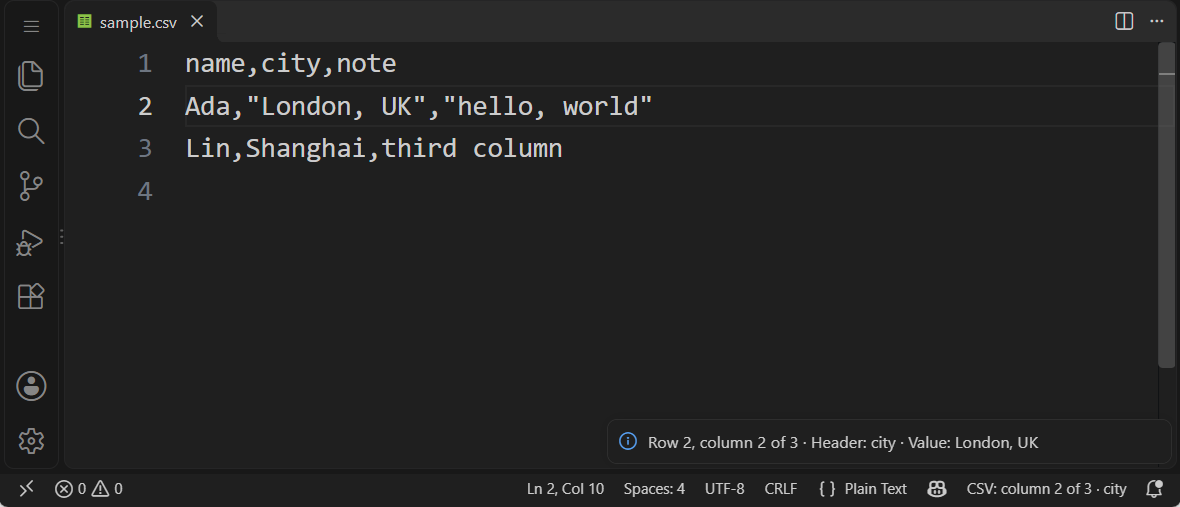
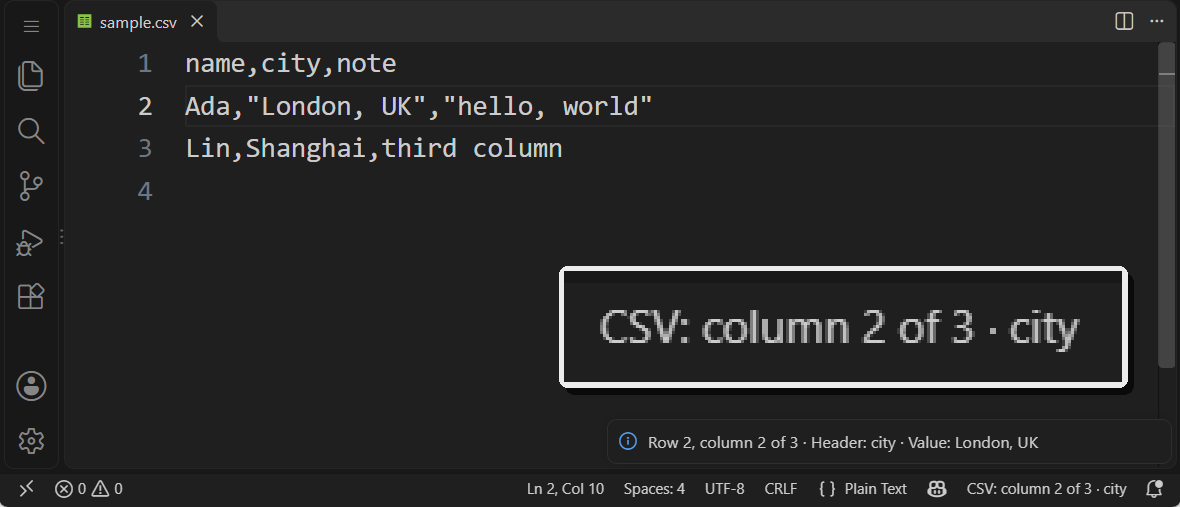
docs: enlarge status bar demos and credit Codex (#6)

Changed region(s): [[0.4576, 0.5325, 0.9763, 0.7692], [0.4881, 0.503, 0.9458, 0.5325], [0.8542, 0.6213, 0.9153, 0.7101]]

diff --git a/README.ja.md b/README.ja.md
@@ -6,15 +6,15 @@ NoColorCSV は、色覚障害・色覚特性のある方や、色だけで列を
 
 ## VS Code での動作画面
 
-以下は、付属の[サンプルファイル](examples/sample.csv)を VS Code で開き、拡張機能を実際に動かして撮影した画面です。画面は英語表示ですが、拡張機能の表示文言は各言語に対応しています。
+以下は、付属の[サンプルファイル](examples/sample.csv)を VS Code で開き、拡張機能を実際に動かして撮影した画面です。
 
 **現在の列：**カーソルが `hello, world` にあるとき、ステータスバーに 3 列目と見出し `note` が表示されます。
 
-![VS Code で CSV の 3 列目を示し、ステータスバーに列番号と note 見出しを表示した画面](docs/images/column-status.png)
+![VS Code でカーソルが 3 列目にあり、拡大枠にステータスバーの CSV: column 3 of 3 · note が表示された画面](docs/images/column-status.png)
 
 **セルの詳細：**カーソルが `London, UK` にあるとき、ステータスバーの項目を選ぶと、行番号、列番号、見出し、セルの内容が文字で表示されます。引用符内のカンマは区切り文字になりません。
 
-![VS Code で city 見出しの下にある 2 列目の London, UK の詳細を表示した画面](docs/images/cell-details.png)
+![VS Code で 2 列目の London, UK の詳細を表示し、拡大枠にステータスバーの CSV: column 2 of 3 · city が表示された画面](docs/images/cell-details.png)
 
 ## Rainbow CSV との違い
 
@@ -69,3 +69,7 @@ npm run package
 ```
 
 開発方針は [AGENTS.md](AGENTS.md)、ライセンスは [LICENSE](LICENSE) を参照してください。
+
+## AI 支援による開発
+
+NoColorCSV の開発と保守は EETKILLER が行い、OpenAI Codex がコーディングを支援しています。

diff --git a/README.ko.md b/README.ko.md
@@ -6,15 +6,15 @@ NoColorCSV는 색각 장애가 있거나 색상만으로 열을 구분하기 어
 
 ## VS Code 실행 화면
 
-다음 화면은 포함된 [예제 파일](examples/sample.csv)을 VS Code에서 열고 확장을 실제로 실행해 촬영했습니다. 화면은 영어로 표시되지만 확장 인터페이스에는 현지화된 문구도 제공됩니다.
+다음 화면은 포함된 [예제 파일](examples/sample.csv)을 VS Code에서 열고 확장을 실제로 실행해 촬영했습니다.
 
 **현재 열:** 커서가 `hello, world`에 있으면 상태 표시줄에 3열과 `note` 헤더가 표시됩니다.
 
-![VS Code에서 CSV의 3열에 커서가 있고 NoColorCSV 상태 표시줄에 열 번호와 note 헤더가 표시된 화면](docs/images/column-status.png)
+![VS Code에서 커서가 3열에 있고 확대 상자에 상태 표시줄의 CSV: column 3 of 3 · note가 표시된 화면](docs/images/column-status.png)
 
 **셀 상세 정보:** 커서가 `London, UK`에 있을 때 상태 표시줄 항목을 선택하면 행 번호, 열 번호, 헤더, 셀 값이 텍스트로 표시됩니다. 따옴표 안의 쉼표는 구분자로 처리되지 않습니다.
 
-![VS Code에서 city 헤더 아래 2열의 London, UK 셀 상세 정보를 표시한 화면](docs/images/cell-details.png)
+![VS Code에서 2열의 London, UK 셀 상세 정보를 표시하고 확대 상자에 상태 표시줄의 CSV: column 2 of 3 · city가 표시된 화면](docs/images/cell-details.png)
 
 ## Rainbow CSV와의 차이
 
@@ -69,3 +69,7 @@ npm run package
 ```
 
 개발 규칙은 [AGENTS.md](AGENTS.md), 라이선스는 [LICENSE](LICENSE)를 참고하세요.
+
+## AI 지원 개발
+
+NoColorCSV는 EETKILLER가 개발하고 유지 관리하며, OpenAI Codex가 코딩을 지원합니다.

diff --git a/README.es.md b/README.es.md
@@ -6,15 +6,15 @@ NoColorCSV es una extensión de VS Code para personas con dificultades de percep
 
 ## Así se ve en VS Code
 
-Estas capturas muestran la extensión en funcionamiento con el [archivo de ejemplo](examples/sample.csv) incluido. La interfaz aparece en inglés; la extensión también ofrece textos localizados.
+Estas capturas muestran la extensión en funcionamiento con el [archivo de ejemplo](examples/sample.csv) incluido.
 
 **Columna actual:** Al situar el cursor en `hello, world`, la barra de estado indica la columna 3 y su encabezado `note`.
 
-![VS Code muestra el cursor en la tercera columna de un CSV y NoColorCSV indica la columna 3 y el encabezado note en la barra de estado](docs/images/column-status.png)
+![VS Code muestra el cursor en la columna 3; un recuadro ampliado muestra el texto CSV: column 3 of 3 · note de la barra de estado](docs/images/column-status.png)
 
 **Detalles de la celda:** Con el cursor en `London, UK`, al seleccionar el elemento de la barra de estado se muestran en texto la fila, la columna, el encabezado y el valor de la celda. La coma dentro del campo entre comillas no inicia otra columna.
 
-![VS Code muestra los detalles de la celda London, UK de la columna 2 bajo el encabezado city](docs/images/cell-details.png)
+![VS Code muestra los detalles de London, UK en la columna 2; un recuadro ampliado muestra el texto CSV: column 2 of 3 · city de la barra de estado](docs/images/cell-details.png)
 
 ## Diferencias con Rainbow CSV
 
@@ -69,3 +69,7 @@ npm run package
 ```
 
 Consulta [AGENTS.md](AGENTS.md) para las convenciones de desarrollo y [LICENSE](LICENSE) para los términos de licencia.
+
+## Desarrollo asistido por IA
+
+EETKILLER desarrolla y mantiene NoColorCSV con la ayuda de OpenAI Codex para la programación.

diff --git a/README.md b/README.md
@@ -6,15 +6,15 @@ NoColorCSV is a VS Code extension for people with color vision differences and a
 
 ## See it in VS Code
 
-These screenshots show NoColorCSV running with [the included sample file](examples/sample.csv). The interface is shown in English; the extension also provides localized interface text.
+These screenshots show NoColorCSV running with [the included sample file](examples/sample.csv).
 
 **Current column:** With the cursor in `hello, world`, the status bar identifies column 3 and its `note` header.
 
-![VS Code showing a CSV file with the cursor in the third column and NoColorCSV identifying column 3 and the note header in the status bar](docs/images/column-status.png)
+![VS Code with the cursor in column 3; a magnified inset shows the status bar text CSV: column 3 of 3 · note](docs/images/column-status.png)
 
 **Cell details:** Selecting the status bar item while the cursor is in `London, UK` shows the row, column, header, and cell value as text. The comma inside the quoted field does not start a new column.
 
-![VS Code showing NoColorCSV cell details for the quoted value London, UK in column 2 under the city header](docs/images/cell-details.png)
+![VS Code showing details for London, UK in column 2; a magnified inset shows the status bar text CSV: column 2 of 3 · city](docs/images/cell-details.png)
 
 ## How it differs from Rainbow CSV
 
@@ -69,3 +69,7 @@ npm run package
 ```
 
 See [AGENTS.md](AGENTS.md) for development conventions and [LICENSE](LICENSE) for licensing terms.
+
+## AI-Assisted Development
+
+NoColorCSV is developed and maintained by EETKILLER with coding assistance from OpenAI Codex.

diff --git a/README.zh-CN.md b/README.zh-CN.md
@@ -6,15 +6,15 @@ NoColorCSV 是面向色觉障碍人士及其他不便依赖颜色区分列的用
 
 ## VS Code 实机展示
 
-以下截图使用仓库中的[示例文件](examples/sample.csv)在 VS Code 中实际运行扩展拍摄。截图界面为英文；扩展也提供本地化界面文字。
+以下截图使用仓库中的[示例文件](examples/sample.csv)在 VS Code 中实际运行扩展拍摄。
 
 **当前列：**光标位于 `hello, world` 时，状态栏显示第 3 列及表头 `note`。
 
-![VS Code 中打开 CSV，光标位于第三列，NoColorCSV 状态栏显示第 3 列和 note 表头](docs/images/column-status.png)
+![VS Code 中光标位于第三列；放大框显示状态栏文字 CSV: column 3 of 3 · note](docs/images/column-status.png)
 
 **单元格详情：**光标位于 `London, UK` 时，点击状态栏可用文字查看行号、列号、表头和单元格内容。引号内的逗号不会被当作分隔符。
 
-![VS Code 中 NoColorCSV 显示 city 表头下第 2 列的 London, UK 单元格详情](docs/images/cell-details.png)
+![VS Code 中显示第 2 列 London, UK 的详情；放大框显示状态栏文字 CSV: column 2 of 3 · city](docs/images/cell-details.png)
 
 ## 与 Rainbow CSV 的区别
 
@@ -69,3 +69,7 @@ npm run package
 ```
 
 项目约定见 [AGENTS.md](AGENTS.md)，许可证见 [LICENSE](LICENSE)。
+
+## AI 辅助开发
+
+NoColorCSV 由 EETKILLER 开发和维护，OpenAI Codex 提供代码编写辅助。
